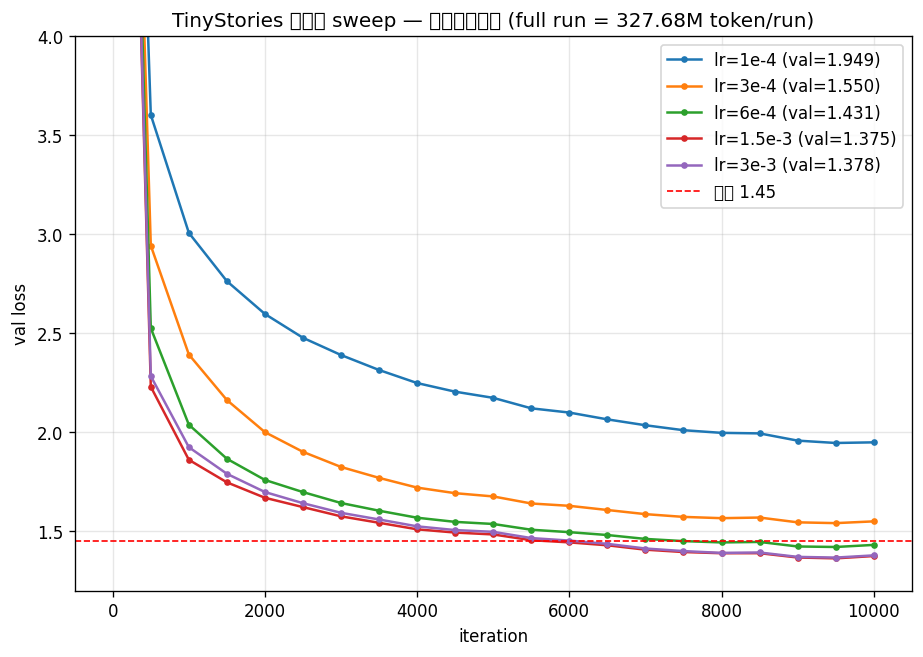
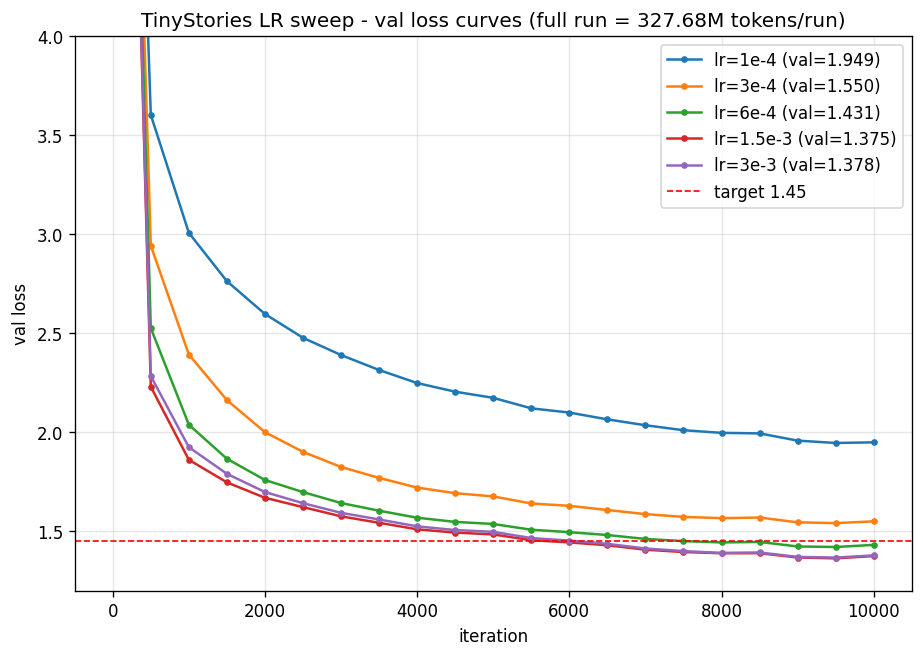
experiments: plot加6e-3/1.2e-2发散点; exp2 batch sweep先大后小

Changed region(s): [[0.1517, 0.0, 0.9101, 0.0609], [0.7584, 0.274, 0.8797, 0.3044]]

diff --git a/assignment1-basics-main/experiments/plot_lr_sweep.py b/assignment1-basics-main/experiments/plot_lr_sweep.py
@@ -9,7 +9,7 @@ import matplotlib.pyplot as plt
 
 RUN_DIR, OUT_DIR = "experiments/runs", "experiments/plots"
 os.makedirs(OUT_DIR, exist_ok=True)
-LRS = ["1e-4", "3e-4", "6e-4", "1.5e-3", "3e-3"]   # sweep 的 5 个学习率
+LRS = ["1e-4", "3e-4", "6e-4", "1.5e-3", "3e-3", "6e-3", "1.2e-2"]   # 5 主 + 2 高(找发散)
 
 VAL_RE = re.compile(r"iter\s+(\d+)\s+\|\s+val/loss\s+([\d.]+|nan|inf)")
 